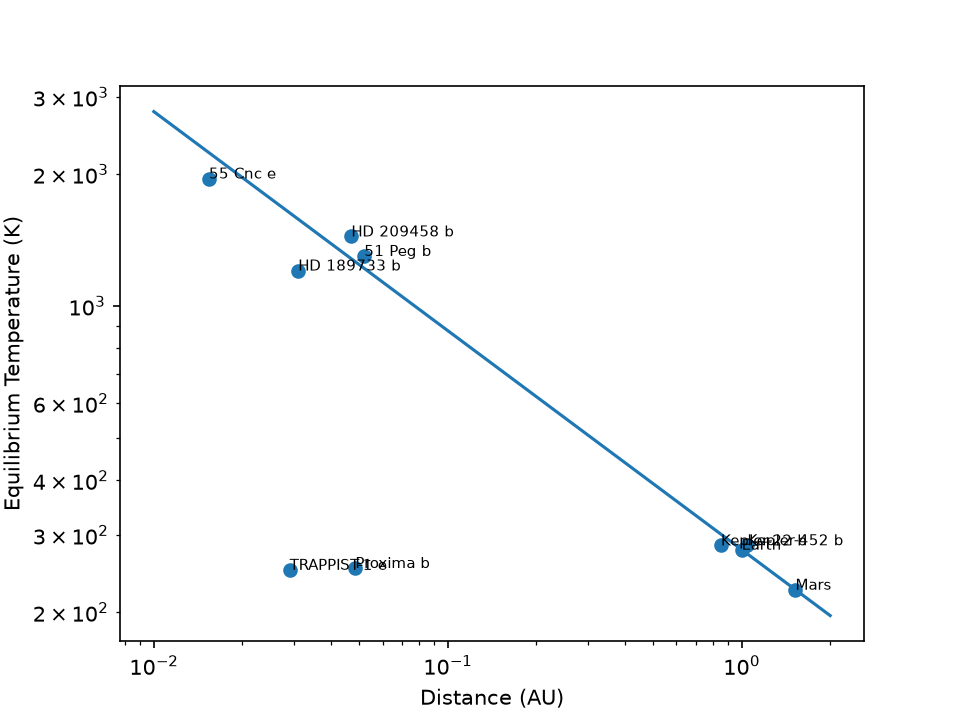
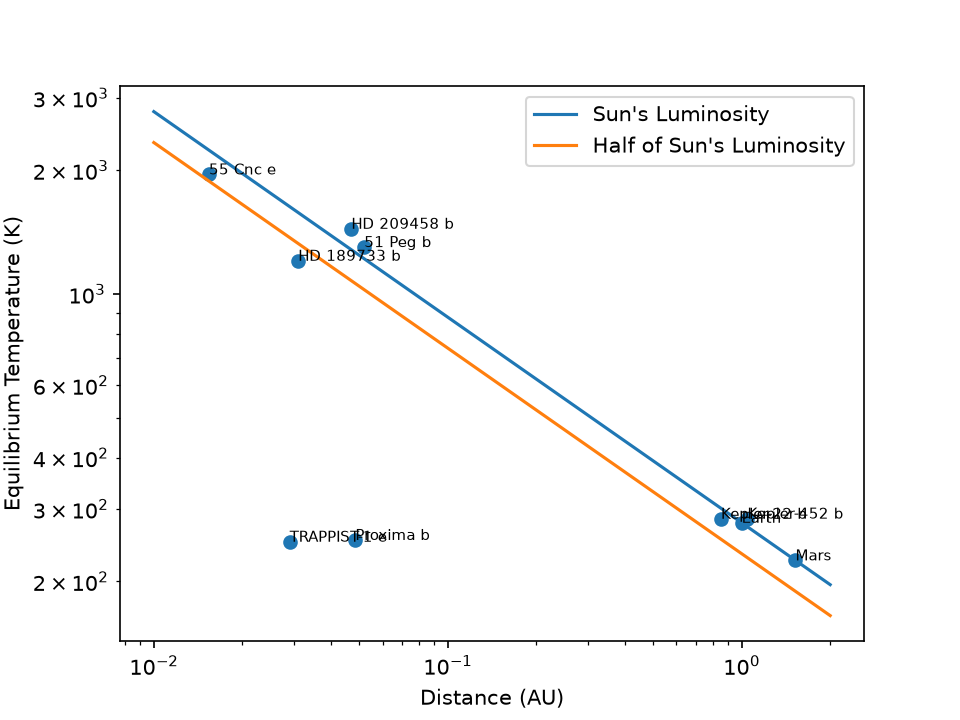
after pod 6

diff --git a/module-4/planets_plot.py b/module-4/planets_plot.py
@@ -19,17 +19,24 @@ def t_eq(L, d):
 
 
 if __name__ == "__main__":
+    I = plt.imread("module-4/clean_io_small.png")
     T = t_eq(lum * L_SUN, dist * AU)
     fig, ax = plt.subplots()
+    fig1, ax_hist = plt.subplots()
     ax.scatter(dist, T)
     ax.set_xlabel("Distance (AU)")
     ax.set_ylabel("Equilibrium Temperature (K)")
     d = np.linspace(0.01, 2.0, 200)
     T_curve = t_eq(L_SUN, d * AU)
-    ax.plot(d, T_curve)
+    T_half_curve = t_eq(L_SUN / 2, d * AU)
+    ax.plot(d, T_curve, label = "Sun's Luminosity")
+    ax.plot(d, T_half_curve, label = "Half of Sun's Luminosity")
+    ax.legend()
     ax.set_xscale("log")
     ax.set_yscale("log")
     for n, x, y in zip(name, dist, T): 
         ax.annotate(n, (x, y), fontsize=7)
     fig.savefig("module-4/planets.png", dpi=150)
+    ax_hist.hist(I[:, :, 0].ravel(),bins=50)
+    fig1.savefig("module-4/hist.png", dpi = 150)
     print("wrote module-4/planets.png")
